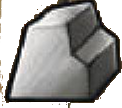
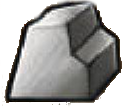
Resources box added and changed background color

diff --git a/src/Client/UI/GUI/GameUIController.java b/src/Client/UI/GUI/GameUIController.java
@@ -2,6 +2,7 @@ package Client.UI.GUI;
 
 import Client.UI.*;
 import Client.UI.GUI.resources.gameComponents.*;
+import javafx.event.ActionEvent;
 import javafx.fxml.FXML;
 import javafx.fxml.Initializable;
 import javafx.scene.DepthTest;
@@ -45,7 +46,16 @@ public class GameUIController implements Client.UI.GameUI, Initializable {
     private Label victoryLabel;
 
     @FXML
-    private HBox myResourcesHBox;
+    private Label rockLabel;
+
+    @FXML
+    private Label woodLabel;
+
+    @FXML
+    private Label slavesLabel;
+
+    @FXML
+    private Label goldLabel;
 
     @FXML
     private HBox domesticsHBox;
@@ -72,7 +82,7 @@ public class GameUIController implements Client.UI.GameUI, Initializable {
 
         //Setup subscene
         subScene.setDepthTest(DepthTest.ENABLE);
-        subScene.setFill(Color.valueOf("8cb22a"));
+        subScene.setFill(Color.valueOf("80dfff"));
         subScene.setCamera(cameraGroup.getCamera());
         subScene.setRoot(world);
 
@@ -105,7 +115,10 @@ public class GameUIController implements Client.UI.GameUI, Initializable {
         //Start PlayersBoxController (the one showing active players)
         new PlayersBoxController(playersHBox, miliyaryVictoryBoxController);
 
-        //At least add gameTable to world.
+        //Resources Controller
+        new ResourcesBoxController(rockLabel, woodLabel, slavesLabel, goldLabel);
+
+        //Add gameTable to world.
         world.getChildren().add(gameTableGroup);
 
         camMouseDrag();
@@ -134,6 +147,30 @@ public class GameUIController implements Client.UI.GameUI, Initializable {
     public RoundOrderController getRoundOrderController() {
         return roundOrderPawnsBlock;
     }
+
+
+    /**
+     * Called by JavaFX
+     *
+     * @param event
+     */
+    @FXML
+    void showTable(ActionEvent event) {
+        GameUIController gameUIController = (GameUIController) UserInterfaceFactory.getInstance().getGameUI();
+        gameUIController.getCameraGroup().setView(MyCameraGroup.CameraPosition.GAMETABLE);
+    }
+
+    /**
+     * Called by JavaFX
+     *
+     * @param event
+     */
+    @FXML
+    void showTowers(ActionEvent event) {
+        GameUIController gameUIController = (GameUIController) UserInterfaceFactory.getInstance().getGameUI();
+        gameUIController.getCameraGroup().setView(MyCameraGroup.CameraPosition.TOWERS);
+    }
+
 
     /**
      * Metodo di servizio per spostare la visuale

diff --git a/src/Client/UI/GUI/ResourcesBoxController.java b/src/Client/UI/GUI/ResourcesBoxController.java
@@ -1,0 +1,50 @@
+package Client.UI.GUI;
+
+import Client.Datawarehouse;
+import Client.UI.PlayerStateObserver;
+import Game.Usable.ResourceType;
+import Game.UserObjects.PlayerState;
+import Logging.Logger;
+import javafx.scene.control.Label;
+
+/**
+ * Created by andrea on 11/06/17.
+ */
+public class ResourcesBoxController implements PlayerStateObserver {
+    private Label rockLabel, woodLabel, slavesLabel, goldLabel;
+
+    /**
+     * Creates a new controller which takes care of keeping resources labels up to date
+     *
+     * @param rockLabel
+     * @param woodLabel
+     * @param slavesLabel
+     * @param goldLabel
+     */
+    public ResourcesBoxController(Label rockLabel, Label woodLabel, Label slavesLabel, Label goldLabel) {
+        this.rockLabel = rockLabel;
+        this.goldLabel = goldLabel;
+        this.woodLabel = woodLabel;
+        this.slavesLabel = slavesLabel;
+
+        Datawarehouse.getInstance().registerPlayerStateObserver(this);
+    }
+
+    /**
+     * Called from Datawarehouse when a new playerstare is available
+     *
+     * @param playerState
+     * @param username
+     */
+    @Override
+    public void onPlayerStateUpdate(PlayerState playerState, String username) {
+        //if it's my PlayerState we can update GUI
+        if (username.equals(Datawarehouse.getInstance().getMyUsername())) {
+            rockLabel.setText(playerState.getResources().get(ResourceType.Rock).toString());
+            goldLabel.setText(playerState.getResources().get(ResourceType.Gold).toString());
+            woodLabel.setText(playerState.getResources().get(ResourceType.Wood).toString());
+            slavesLabel.setText(playerState.getResources().get(ResourceType.Slave).toString());
+            Logger.log(Logger.LogLevel.Normal, "ResourcesBoxController updated shown resources on GUI");
+        }
+    }
+}
